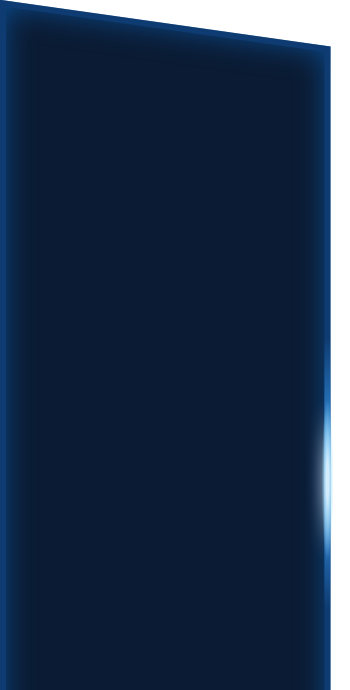
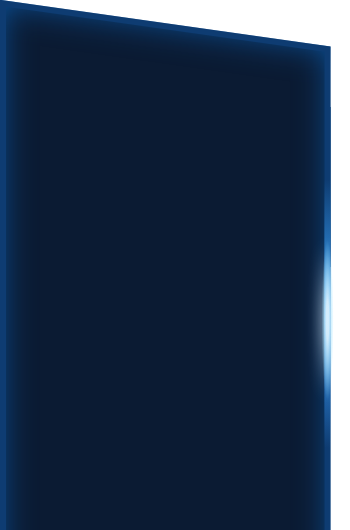
无人微站页面样式

Changed region(s): [[0.0571, 0.0, 0.9429, 0.1208], [0.8857, 0.3623, 0.9714, 0.8453]]

diff --git a/src/views/Unmanned/index.less b/src/views/Unmanned/index.less
@@ -12,17 +12,17 @@
   display: flex;
   padding: 20px 15px 10px 15px;
   position: relative;
-  // &::after {
-  //   content: "";
-  //   background: url("@/assets/images/unmanned/background.png");
-  //   background-size: 100% 100%;
-  //   width: 100%;
-  //   height: 100%;
-  //   position: absolute;
-  //   left: 0;
-  //   top: 0;
-  //   z-index: 1;
-  // }
+  &::after {
+    content: "";
+    background: url("@/assets/images/unmanned/bg.png");
+    background-size: 100% 100%;
+    width: 100%;
+    height: 100%;
+    position: absolute;
+    left: 0;
+    top: 0;
+    z-index: 1;
+  }
   .left {
     width: 340px;
     margin-top: 20px;
@@ -35,12 +35,12 @@
       display: flex;
       align-content: flex-end;
       flex-wrap: wrap;
-      z-index: 1;
+      z-index: 2;
       .back1 {
         background: url("@/assets/images/unmanned/left/1.png") center center no-repeat;
         background-size: 100% 100%;
         width: 350px;
-        height: 690px;
+        height: 530px;
       }
       .back2 {
         height: 0px;
@@ -68,6 +68,7 @@
       z-index: 2;
       width: calc(100% - 24px);
       height: calc(100% - 108px);
+      // background: #0B1C33;
       .unmannedSelect {
         padding: 5px 12px;
         label {
@@ -108,14 +109,25 @@
       .chart {
         width: 100%;
         height: 240px;
-        margin-top: -20px;
-        
+        margin-top: -5px;
+        position: relative;
+        z-index: 2;
+      }
+      .chartImg {
+        background: url("@/assets/images/unmanned/left/pieChart.png") center center no-repeat;
+        background-size: 100% 100%;
+        width: 240px;
+        height: 240px;
+        position: absolute;
+        left: 37px;
+        top: 115px;
+        z-index: 1;
       }
       .equipmentStatistics {
         width: 100%;
-        height: calc(100% - 340px);
+        height: calc(100% - 350px);
         overflow-y: auto;
-        padding: 0 10px 0 25px;
+        padding: 10px 10px 0 25px;
         .equipmentItem {
           width: 50%;
           height: 55px;
@@ -240,6 +252,7 @@
       position: relative;
       top: -7px;
       height: 60px;
+      z-index: 2;
       .topControls {
         text-align: center;
         .tLeft {
@@ -481,7 +494,7 @@
               height: calc(100vh - 338px);
               border: 1px #44668A solid;
               border-radius: 0 !important;
-              background: none !important;
+              background: #0b1c33 !important;
               .ant-table-tbody {
                 tr {
                   cursor: pointer;

diff --git a/src/views/Unmanned/index.vue b/src/views/Unmanned/index.vue
@@ -26,6 +26,7 @@
         </div>
         <div class="unTitle">微站设备占比</div>
         <div class="chart" ref="chartRef" />
+        <div class="chartImg" />
         <div class="equipmentStatistics">
           <div v-for="item, index in deviceList" :key="index" 
             :class="[

diff --git a/src/views/RealTimeVideo/index.less b/src/views/RealTimeVideo/index.less
@@ -329,8 +329,15 @@
   }
 }
 
+.turntable {
+  g {
+    cursor: pointer;
+  }
+}
+
 .runningStateFill {
+
   &:hover {
-    fill: #197CD1;
+    fill: #388cfb;
   }
 }
